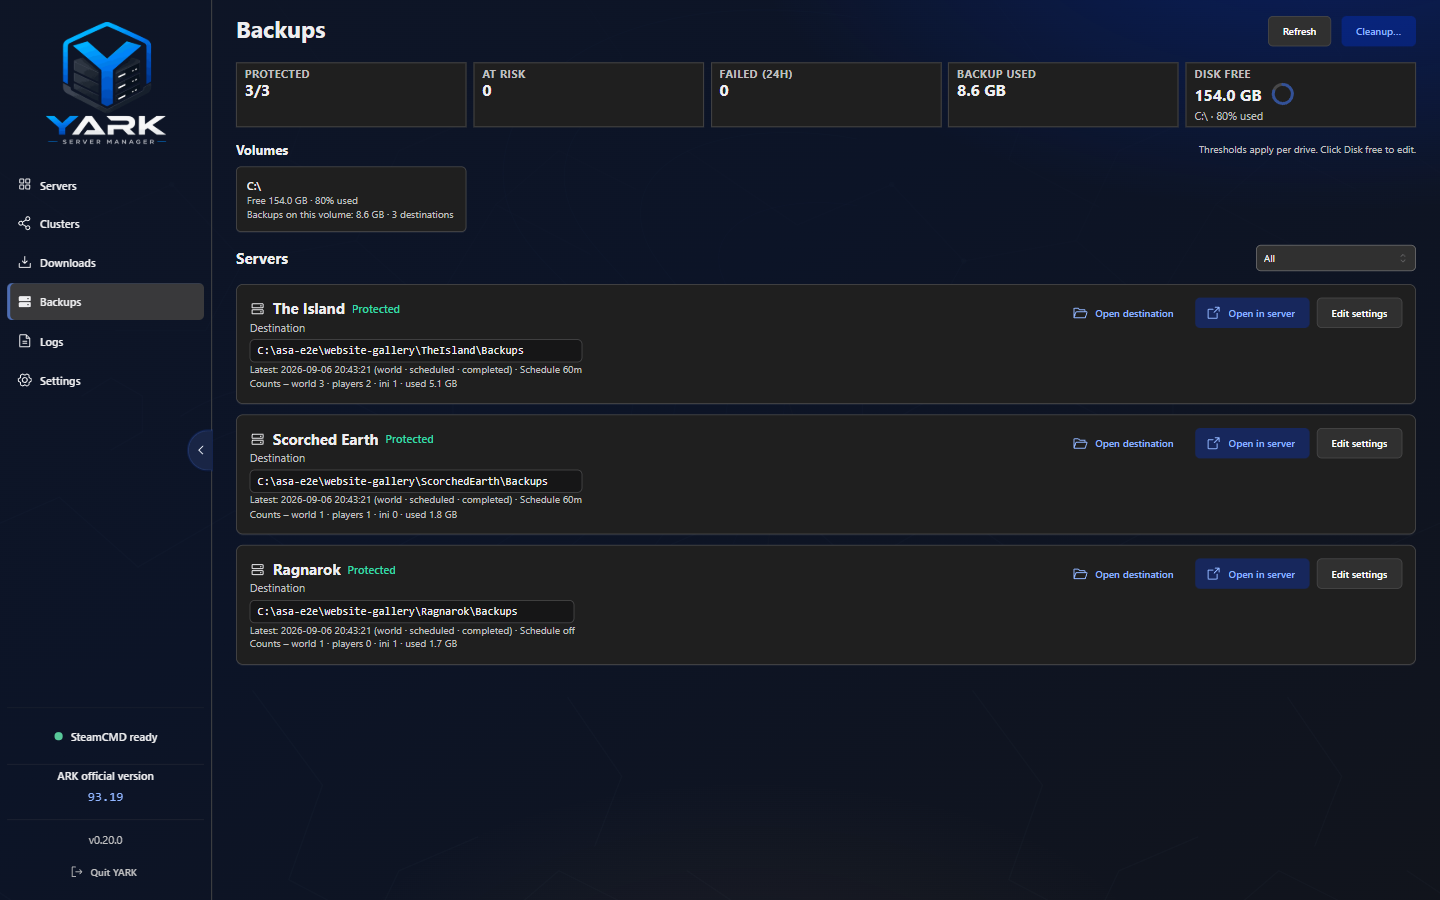
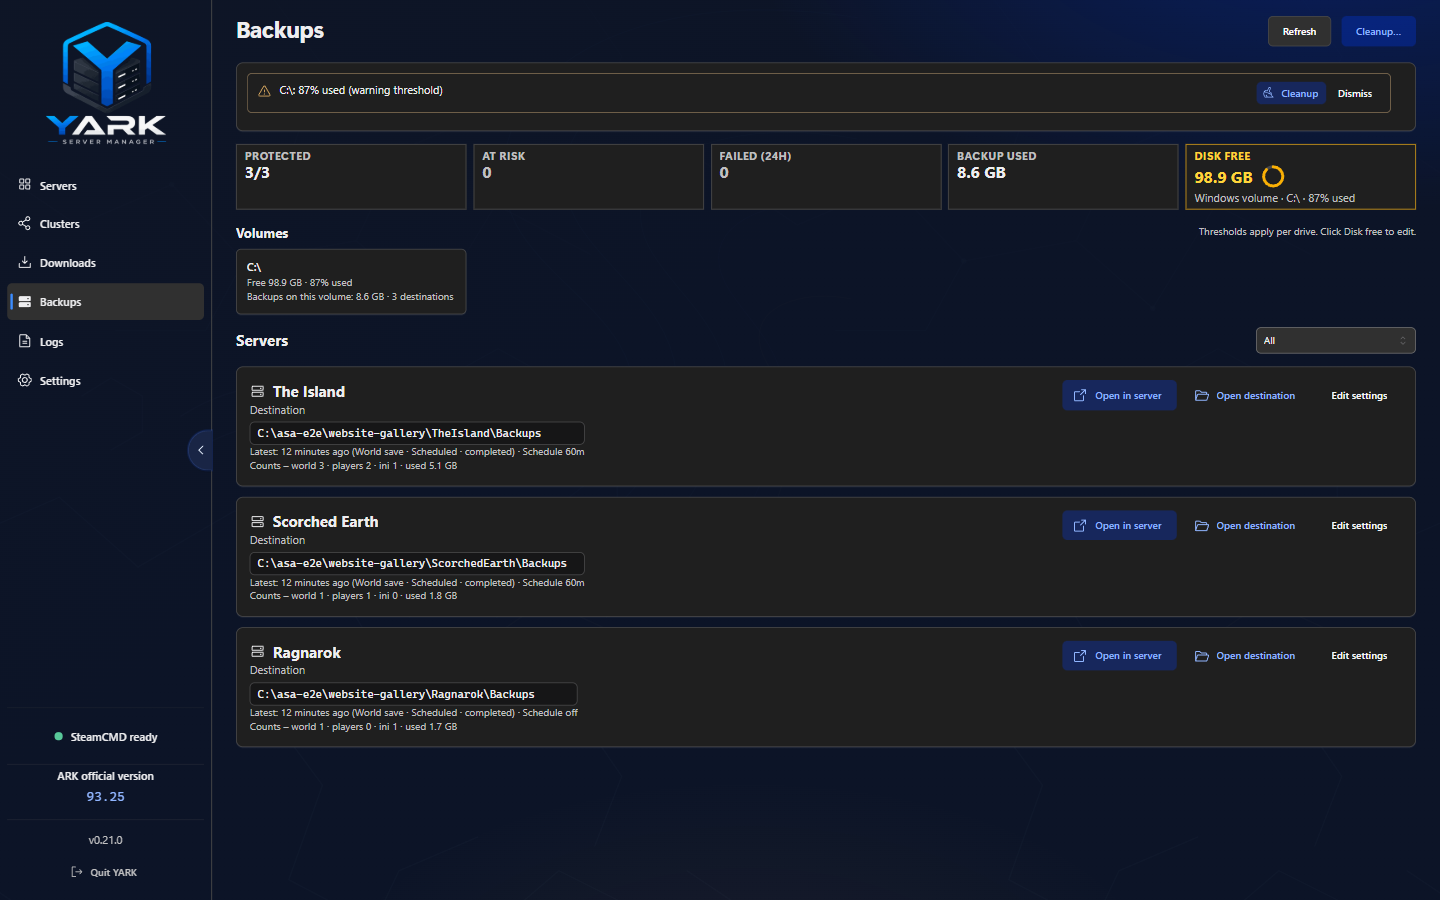
\ release: v0.21.0\

diff --git a/src/shared/settings/changelog.ts b/src/shared/settings/changelog.ts
@@ -24,6 +24,37 @@ const DEFAULT_RECENT_CHANGELOG_LIMIT = 8;
  */
 export const changelog: ChangelogEntry[] = [
   {
+    version: "0.21.0",
+    date: "2026-09-16",
+    sections: [
+      {
+        title: "Added",
+        items: [
+          "Overview shows a one-time Discord invite card in the bottom-right corner.",
+          "Optional Discord webhook alerts for server events and SteamCMD jobs, with per-event controls, custom message templates, delivery testing, and cooldown protection.",
+        ],
+      },
+      {
+        title: "Changed",
+        items: [
+          "Operator UX sweep: clearer chrome, Fluent-style nav pills, safer create/save, and a desktop tab strip for workspace tabs.",
+          "Secondary workspace panels load when their tabs open, reducing the initial renderer chunk.",
+          "Mods restores the compact Server mods / Discover segmented switcher.",
+          "Public product site deploys to Cloudflare Pages; Discord invite updated.",
+        ],
+      },
+      {
+        title: "Fixed",
+        items: [
+          "Closing the server console window (or End task / Ctrl+C) no longer shows a crash state — recorded as Closed by user.",
+          "Restoring an INI backup clears leftover Configuration drafts so Start cannot flush queued edits.",
+          "Pending INI queue no longer drops gameplay edits when a profile sync races an in-flight save.",
+          "Renderer errors show a Reload screen instead of a blank window.",
+        ],
+      },
+    ],
+  },
+  {
     version: "0.20.0",
     date: "2026-09-07",
     sections: [

diff --git a/docs/versioning.md b/docs/versioning.md
@@ -127,28 +127,117 @@ Then watch **Actions → Release Windows**. Rebuild an existing tag via
 
 ## Release checklist
 
-1. Move items from `## [Unreleased]` in `CHANGELOG.md` into a new section
-   `## [X.Y.Z] - YYYY-MM-DD` with `Added` / `Changed` / `Fixed` / `Removed` as needed.
-2. Bump `package.json` `"version"` to `X.Y.Z` (and refresh the lockfile metadata
-   via `npm version X.Y.Z --no-git-tag-version` if you want npm to edit it).
-3. Confirm the sidebar shows `vX.Y.Z` after `npm run dev` / build (driven by
-   `APP_VERSION`).
-4. Run verification appropriate to the change:
-   - `npm run typecheck`
-   - `npm test`
-   - `npm run build` (optional local `npm run package` smoke)
-5. Sync the curated changelog in `src/shared/settings/changelog.ts` (site + in-app What's
-   new; `website/src/data/changelog.ts` re-exports it). Version pill / download
-   CTA follow `package.json` via `website/src/data/site.ts`.
-6. Commit with a message that names the version (e.g. `release: v0.2.0`) and merge
-   to `main`.
-7. Tag `vX.Y.Z` on that commit and `git push origin vX.Y.Z` — CI publishes the
-   installer to the GitHub Release.
-8. Leave a fresh empty `## [Unreleased]` section at the top of `CHANGELOG.md`
-   for the next cycle.
-9. Download the published installer, compare its GitHub-provided SHA-256 digest, and confirm the
-   public site's release-trust copy matches reality. Once #142 lands, also verify Authenticode,
-   publisher identity, and timestamp before considering the release complete.
+### Phase 0 — Pre-release quality gates
+
+Run these **before** bumping any version or touching the changelog. Every gate
+must pass; a failure blocks the release until fixed.
+
+1. **Bugbash** — manual walkthrough of the main operator flows on the current
+   `main` build:
+   - Create / clone / delete a server.
+   - Start → running → RCON-ready → Stop / Restart.
+   - Backup create → restore (test-owned profile only).
+   - INI visual editor: open, edit a key, save, verify diff preview.
+   - Mods: browse, install, remove.
+   - Logs: filter by severity, open runtime / update / backup logs.
+   - Settings: each category (General, Profiles, SteamCMD, Log files, About).
+   - Downloads: queue a SteamCMD job, pause → resume.
+   - Keyboard: Ctrl+K Spotlight, Shift+F10 card menu, Escape to dismiss.
+   Record pass/fail per flow; note any regressions vs the previous release.
+
+2. **React Doctor** — renderer/backend hygiene (not a merge gate, but a
+   pre-release snapshot):
+   ```
+   npx react-doctor@latest --verbose --scope changed
+   npx react-doctor@latest design --verbose
+   ```
+   Avoid regressing newly introduced **errors**. Do not mass-fix warnings.
+   See [react-doctor.md](react-doctor.md) for baseline and rules turned off.
+
+3. **Static analysis**
+   ```
+   npm run typecheck
+   npm run lint
+   npm run knip
+   ```
+   All three must be clean. `knip` catches unused files, exports, and deps;
+   see [knip.md](knip.md).
+
+4. **Unit / integration tests**
+   ```
+   npm test
+   ```
+   All tests green. On Linux, the ~8 Windows-path tests are expected failures;
+   validate via `cmd.exe /c "npm test"` on Windows or in CI.
+
+5. **E2E suite** — run the full matrix appropriate to the changes shipped
+   ([e2e-validation.md](e2e-validation.md)):
+   ```
+   npm run build
+   npm run e2e:smoke          # empty-fleet overview
+   npm run e2e:keyboard        # Ctrl+K, Shift+F10, Escape
+   npm run e2e                 # CRUD + shell nav (CI gate)
+   npm run e2e:install-health  # install-state badges
+   npm run e2e:host-port-probe # UDP conflict modal
+   ```
+   Add any **UI-changing** script from the mapping table in `e2e-validation.md`
+   (e.g. `e2e:mods`, `e2e:launch-args`, `e2e:clusters-membership`) when the
+   release touches those surfaces. All must pass on Windows.
+
+6. **Production build + bundle report**
+   ```
+   npm run build
+   npm run build:report
+   ```
+   Confirm the bundle report shows no unexpected chunk growth. Optionally run
+   `npm run package` locally for a smoke of the NSIS installer.
+
+### Phase 1 — Changelog + version bump
+
+7. Move items from `## [Unreleased]` in `CHANGELOG.md` into a new section
+   `## [X.Y.Z] - YYYY-MM-DD` with `Added` / `Changed` / `Fixed` / `Removed`
+   / `Docs` / `Security` as needed.
+8. Bump `package.json` `"version"` to `X.Y.Z` (and refresh the lockfile
+   metadata via `npm version X.Y.Z --no-git-tag-version` if you want npm to
+   edit it).
+9. Confirm the sidebar shows `vX.Y.Z` after `npm run dev` / build (driven by
+   `APP_VERSION` from `src/shared/app-version.ts`).
+10. Sync the curated changelog in `src/shared/settings/changelog.ts` (site +
+    in-app What's new; `website/src/data/changelog.ts` re-exports it). Version
+    pill / download CTA follow `package.json` via `website/src/data/site.ts`.
+
+### Phase 2 — Website / docs
+
+11. If the release includes **visual renderer changes**: re-capture screenshots
+    (`scripts/capture-website-screenshots.cjs`) and update
+    `website/public/screenshots/`. Follow [website.md](website.md) and
+    [visual-testing.md](visual-testing.md).
+12. Verify `website/src/data/site.ts` reads the new version from `package.json`
+    (download CTA URL and version pill update automatically).
+13. Sync operator docs if runbooks or IPC contracts changed — check that
+    `website/src/content/docs/docs/` mirrors the latest `docs/` runbooks.
+
+### Phase 3 — Commit, tag, push
+
+14. Commit with a message that names the version (e.g. `release: v0.21.0`) and
+    merge to `main` (squash merge is the default).
+15. Tag `vX.Y.Z` on that commit and `git push origin vX.Y.Z` — CI publishes
+    the installer to the GitHub Release.
+16. Leave a fresh empty `## [Unreleased]` section at the top of `CHANGELOG.md`
+    for the next cycle.
+
+### Phase 4 — Post-release verification
+
+17. Watch **Actions → Release Windows** in GitHub Actions; confirm the workflow
+    succeeds and the `.exe` + `latest.yml` assets are uploaded.
+18. Download the published installer, compare its GitHub-provided SHA-256
+    digest, and confirm the public site's release-trust copy matches reality.
+    Once #142 lands, also verify Authenticode, publisher identity, and
+    timestamp before considering the release complete.
+19. Confirm `https://getyark.com/` reflects the new version (hero pill,
+    download CTA) and the changelog page shows the new entry.
+20. Submit `https://getyark.com/sitemap-index.xml` in Search Console if SEO
+    indexing is a concern for this release.
 
 ## What belongs in the changelog
 

diff --git a/CHANGELOG.md b/CHANGELOG.md
@@ -9,6 +9,8 @@ How to bump versions and cut releases: see [docs/versioning.md](docs/versioning.
 
 ## [Unreleased]
 
+## [0.21.0] - 2026-09-16
+
 ### Added
 
 - Overview shows a one-time **Discord invite** card in the bottom-right corner; opening or dismissing it keeps it out of the way on later launches (#567).
